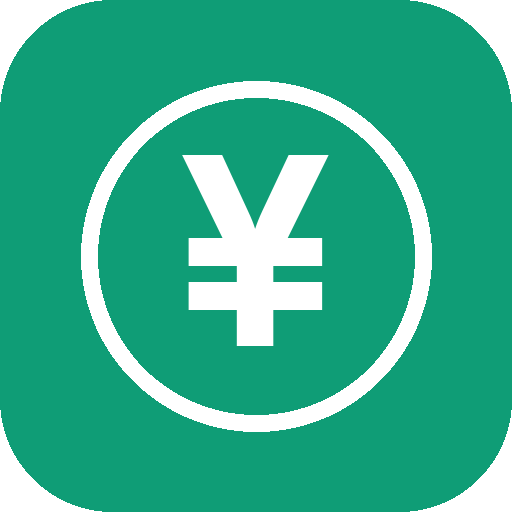
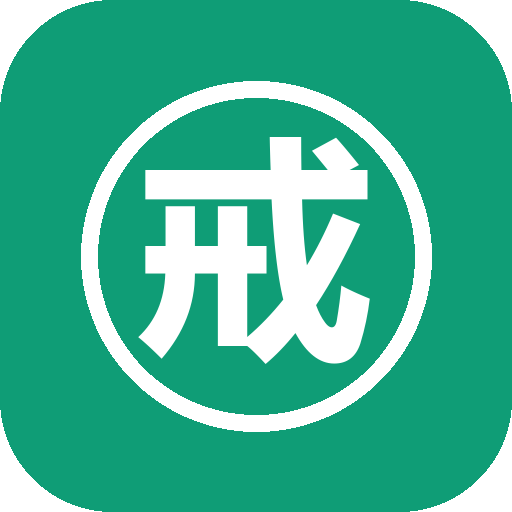
rename: 戒槟打卡 - health first, money secondary

Changed region(s): [[0.2812, 0.25, 0.7188, 0.7188]]

diff --git a/index.html b/index.html
@@ -6,11 +6,11 @@
 <meta name="theme-color" content="#0f9d76">
 <meta name="apple-mobile-web-app-capable" content="yes">
 <meta name="apple-mobile-web-app-status-bar-style" content="default">
-<meta name="apple-mobile-web-app-title" content="省钱打卡">
+<meta name="apple-mobile-web-app-title" content="戒槟打卡">
 <link rel="manifest" href="manifest.json">
 <link rel="icon" href="icon-192.png" type="image/png">
 <link rel="apple-touch-icon" href="icon-192.png">
-<title>戒槟榔 · 省钱打卡</title>
+<title>戒槟打卡 · 为了身体</title>
 <style>
   :root{
     --bg:#eef2f6; --card:#fff; --ink:#1b2433; --muted:#718096;
@@ -34,7 +34,7 @@
   .hero-label{font-size:13px;opacity:.85;letter-spacing:1px}
   .hero-amount{font-size:52px;font-weight:800;line-height:1.18;margin-top:4px;position:relative;z-index:1;
     font-variant-numeric:tabular-nums}
-  .hero-amount .yen{font-size:26px;vertical-align:top;margin-right:2px;opacity:.9}
+  .hero-amount .unit{font-size:22px;margin-left:6px;opacity:.9;font-weight:700}
   .hero-sub{font-size:12.5px;opacity:.82;margin-top:6px}
   .float{position:absolute;right:22px;top:24px;font-size:22px;font-weight:800;color:#fff;
     pointer-events:none;opacity:0;animation:floatUp 1.2s ease-out forwards;z-index:2}
@@ -145,19 +145,19 @@
 </head>
 <body>
   <div class="top">
-    <div class="brand"><span class="dot"></span>省钱打卡</div>
+    <div class="brand"><span class="dot"></span>戒槟打卡</div>
     <button class="icon-btn" id="settingsBtn" aria-label="设置">⚙</button>
   </div>
 
   <div class="hero" id="hero">
-    <div class="hero-label">累计省下的钱</div>
-    <div class="hero-amount"><span class="yen">¥</span><span id="saved">0</span></div>
-    <div class="hero-sub" id="heroS">每忍住一次，就赚回一包槟榔钱</div>
-    <div class="float" id="float">+¥30</div>
+    <div class="hero-label">坚持戒槟</div>
+    <div class="hero-amount"><span id="days">0</span><span class="unit">天</span></div>
+    <div class="hero-sub" id="heroS">每忍住一次，身体就少受一份罪</div>
+    <div class="float" id="float">+1 天</div>
   </div>
 
   <div class="stats">
-    <div class="stat b"><div class="num" id="streakB">0</div><div class="lbl">连续没嚼（天）</div></div>
+    <div class="stat b"><div class="num" id="totalCount">0</div><div class="lbl">累计忍住（次）</div></div>
     <div class="stat e"><div class="num" id="streakE">0</div><div class="lbl">本周锻炼（次）</div></div>
   </div>
 
@@ -172,7 +172,7 @@
   <div class="section-title">今天打卡</div>
   <div class="actions">
     <button class="btn btn-primary" id="betelBtn">
-      <span>我忍住了，没嚼<small id="betelSub">点一下，账本 +¥30</small></span><span class="arrow">›</span>
+      <span>我忍住了，没嚼<small id="betelSub">点一下，身体少受一份罪，顺带 +¥30</small></span><span class="arrow">›</span>
     </button>
     <button class="btn btn-orange" id="exerciseBtn">
       <span>今天练了<small id="exerciseSub">点一下，给你今天的练法</small></span><span class="arrow">›</span>
@@ -181,15 +181,15 @@
       <span>嘴瘾上来了 → 3 分钟急救<small>先记下场景，再动起来，撑过去再打卡</small></span><span class="arrow">›</span>
     </button>
     <button class="btn btn-slip hidden" id="slipBtn">
-      <span>今天没撑住<small id="slipSub">记下来，不扣钱、不清零，明天继续</small></span><span class="arrow">›</span>
+      <span>今天没撑住<small id="slipSub">记下来，不清零，明天继续</small></span><span class="arrow">›</span>
     </button>
   </div>
 
-  <div class="section-title">省钱目标</div>
+  <div class="section-title">顺带省下的钱</div>
   <div class="card">
     <div class="progress-top"><span id="mLabel">下一个奖励</span><b id="mAmount">¥0 / ¥300</b></div>
     <div class="bar"><i id="mBar"></i></div>
-    <div class="milestone-note" id="mNote">省下的钱是真实的，别花在槟榔上。</div>
+    <div class="milestone-note" id="mNote">身体是主账，这笔钱是顺带的。</div>
   </div>
 
   <div class="section-title">最近 7 天</div>
@@ -234,7 +234,7 @@
   <!-- 设置 -->
   <div class="mask" id="setMask"><div class="sheet">
     <h3>设置</h3><div class="sub">改成你自己的规则</div>
-    <label class="f">一包槟榔多少钱</label>
+    <label class="f">一包槟榔多少钱（只用来顺带记账）</label>
     <input type="number" id="priceInput" min="1" step="1" value="30">
     <label class="f">提醒时间 1（早上）</label><input type="time" id="t1" value="08:00">
     <label class="f">提醒时间 2（下午犯困）</label><input type="time" id="t2" value="15:00">
@@ -269,7 +269,7 @@
     {name:'最难，扛住就赢',tip:'第 2–3 天：烦躁、犯困、注意力散——这是戒断反应，不是你意志力差。嘴瘾来了就动 3 分钟，撑过去就赢了一半。'},
     {name:'渴求下降',tip:'第 4–7 天：渴求开始明显下降。继续用运动替代，你会发现不嚼也能过一天。'},
     {name:'习惯成型',tip:'第 8–14 天：新习惯在成型。别松懈，这个阶段最容易"觉得没事了"然后破戒。'},
-    {name:'你已经是另一种人',tip:'第 15 天以后：槟榔不再是你的必需品。保持锻炼，把省下的钱花在真正想要的东西上。'}
+    {name:'你已经是另一种人',tip:'第 15 天以后：槟榔不再是你的必需品。保持锻炼，把力气花在让身体更好的事上。'}
   ];
   var STAGE_MARKS=[1,3,7,14,30];
   var STAGE_LABELS=['第1天','第3天','第7天','第14天','第30天'];
@@ -367,9 +367,9 @@
 
   function render(){
     var s=saved();
-    $('saved').textContent=money(s);
-    $('heroS').textContent='已攒下 '+(s/state.price)+' 包槟榔钱 · 每忍住一次 +¥'+state.price;
-    $('streakB').textContent=streak('betel');
+    $('days').textContent=streak('betel');
+    $('totalCount').textContent=state.records.filter(function(r){return r.type==='betel';}).length;
+    $('heroS').textContent='顺带省下 ¥'+money(s)+' · 每忍住一次，身体少受一份罪';
     $('streakE').textContent=weekExercise();
     var b=has('betel'), e=has('exercise'), sl=has('slip');
 
@@ -383,7 +383,7 @@
       $('betelBtn').querySelector('.arrow').textContent='✓';
     }else{
       $('betelBtn').className='btn btn-primary';
-      $('betelSub').textContent='点一下，账本 +¥'+state.price;
+      $('betelSub').textContent='点一下，身体少受一份罪，顺带 +¥'+state.price;
       $('betelBtn').querySelector('.arrow').textContent='›';
     }
     $('exerciseBtn').className='btn '+(e?'done':'btn-orange');
@@ -400,7 +400,7 @@
         $('slipBtn').querySelector('.arrow').textContent='✓';
       }else{
         $('slipBtn').className='btn btn-slip';
-        $('slipSub').textContent='记下来，不扣钱、不清零，明天继续';
+        $('slipSub').textContent='记下来，不清零，明天继续';
         $('slipBtn').querySelector('.arrow').textContent='›';
       }
     }
@@ -410,7 +410,7 @@
       $('mLabel').textContent='下一个奖励：'+next.t;
       $('mAmount').textContent='¥'+money(s)+' / ¥'+money(next.v);
       $('mBar').style.width=Math.min(100,s/next.v*100)+'%';
-      $('mNote').textContent='再攒 ¥'+money(next.v-s)+' 就能兑现，别拿去嚼了。';
+      $('mNote').textContent='再攒 ¥'+money(next.v-s)+' 就能兑现，把身体养好比什么都值。';
     }else{
       $('mLabel').textContent='全部达成，你赢了';
       $('mAmount').textContent='¥'+money(s);
@@ -436,15 +436,15 @@
     clearTimeout(t._t); t._t=setTimeout(function(){t.classList.remove('show');},2600);
   }
   function fly(){
-    var f=$('float'); f.textContent='+¥'+state.price;
+    var f=$('float'); f.textContent='+1 天';
     f.style.animation='none'; void f.offsetWidth; f.style.animation='floatUp 1.2s ease-out forwards';
   }
   function checkinBetel(){
     if(has('betel')){ toast('今天已经打过卡了'); return; }
     if(has('slip')){ toast('今天记了没撑住，明天重新来，别纠结'); return; }
     state.records.push({date:dstr(),type:'betel',value:state.price,ts:Date.now()});
-    save(); render(); fly(); toast('爽！又省下 ¥'+state.price);
-    notify('打卡成功','又忍住一天，省下 ¥'+state.price);
+    save(); render(); fly(); toast('撑住了！身体又轻松一天');
+    notify('打卡成功','又忍住一天，身体少受一份罪');
   }
   function openMask(id){ $(id).classList.add('show'); }
   function closeMask(id){ $(id).classList.remove('show'); }
@@ -454,7 +454,7 @@
   $('slipBtn').onclick=function(){
     if(has('betel')) return;
     if(has('slip')){ toast('今天已经记过了，明天继续'); return; }
-    if(!confirm('记一次"没撑住"？不扣钱，连续天数也不会清零。')) return;
+    if(!confirm('记一次"没撑住"？连续天数不会清零。')) return;
     state.records.push({date:dstr(),type:'slip',ts:Date.now()});
     save(); render();
     toast('记下了。一次没撑住不代表失败，明天继续。');
@@ -545,7 +545,7 @@
         clearInterval(timerId);
         $('urgeHint').textContent='搞定了，回去记一笔';
         $('urgeDone').classList.remove('hidden');
-        notify('急救完成','现在去打卡，省下 ¥'+state.price);
+        notify('急救完成','现在去打卡，身体又轻松一天');
       }
     },1000);
   };
@@ -585,7 +585,7 @@
   $('exportBtn').onclick=function(){
     var blob=new Blob([JSON.stringify(state,null,2)],{type:'application/json'});
     var a=document.createElement('a'); a.href=URL.createObjectURL(blob);
-    a.download='省钱打卡备份-'+dstr()+'.json'; a.click();
+    a.download='戒槟打卡备份-'+dstr()+'.json'; a.click();
     toast('已导出，存到微信收藏或网盘');
   };
   $('importBtn').onclick=function(){ $('fileInput').click(); };

diff --git a/sw.js b/sw.js
@@ -1,4 +1,4 @@
-var CACHE = 'habit-coach-v3';
+var CACHE = 'habit-coach-v4';
 var ASSETS = ['./', './index.html', './manifest.json', './icon.svg', './icon-192.png', './icon-512.png'];
 
 self.addEventListener('install', function (e) {

diff --git a/gen_icons.py b/gen_icons.py
@@ -2,7 +2,7 @@ from PIL import Image, ImageDraw, ImageFont
 import os
 
 base = os.path.dirname(os.path.abspath(__file__))
-font_path = "C:/Windows/Fonts/arialbd.ttf"
+font_path = "C:/Windows/Fonts/msyhbd.ttc"
 
 for size in (192, 512):
     img = Image.new("RGBA", (size, size), (0, 0, 0, 0))
@@ -10,8 +10,8 @@ for size in (192, 512):
     d.rounded_rectangle([0, 0, size - 1, size - 1], radius=int(size * 0.22), fill=(15, 157, 118, 255))
     m = int(size * 0.16)
     d.ellipse([m, m, size - m, size - m], outline=(255, 255, 255, 70), width=max(2, int(size * 0.035)))
-    font = ImageFont.truetype(font_path, int(size * 0.52))
-    text = "¥"
+    font = ImageFont.truetype(font_path, int(size * 0.46))
+    text = "戒"
     box = d.textbbox((0, 0), text, font=font)
     w, h = box[2] - box[0], box[3] - box[1]
     x = (size - w) // 2 - box[0]
